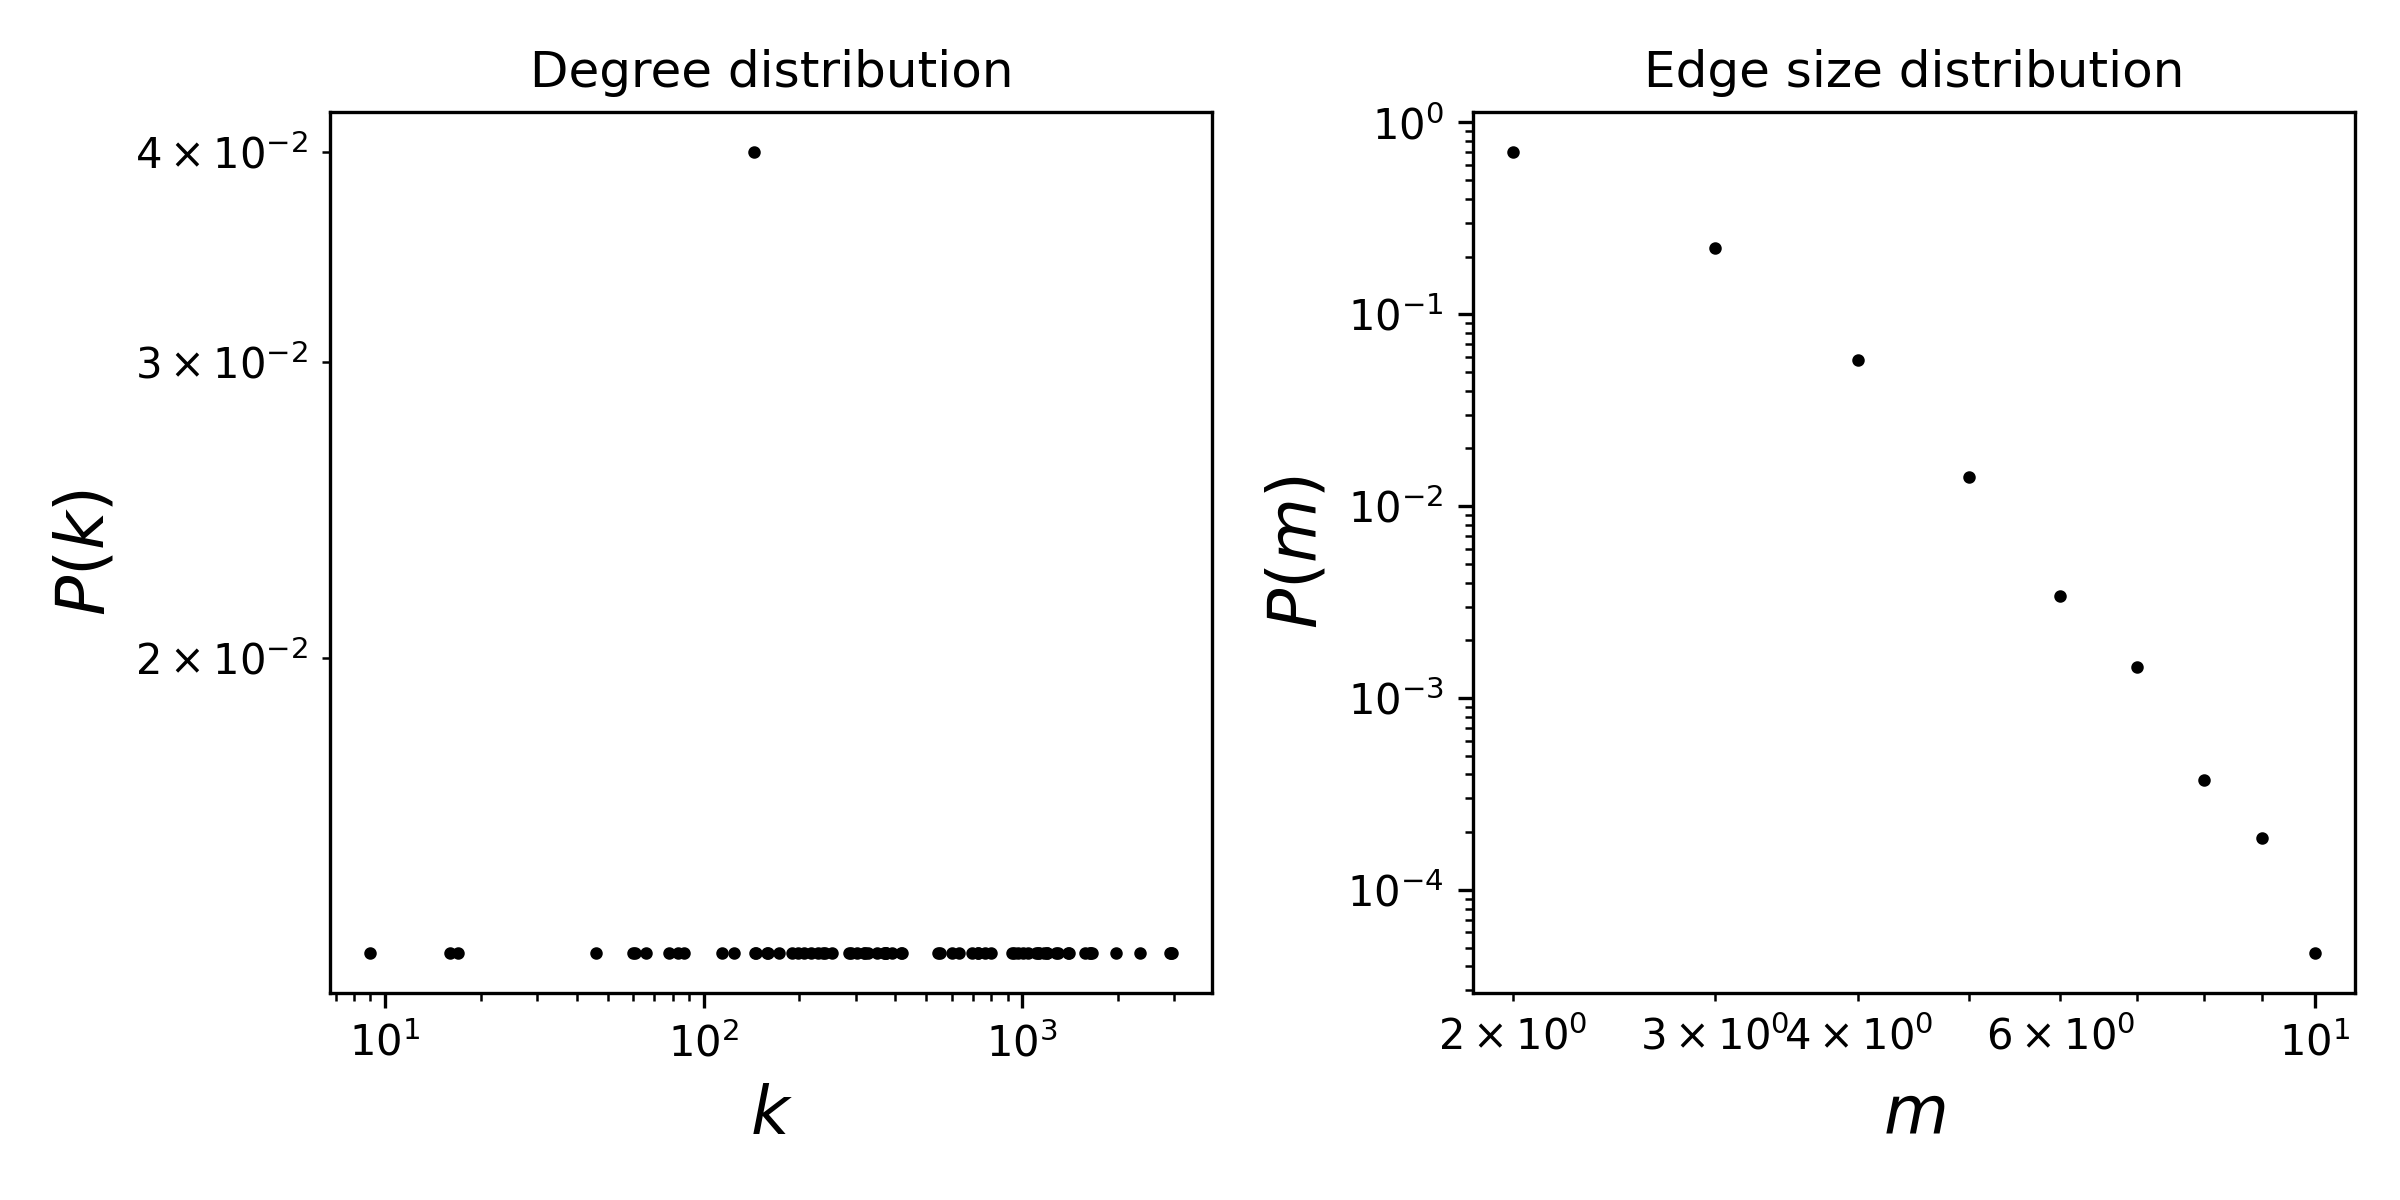
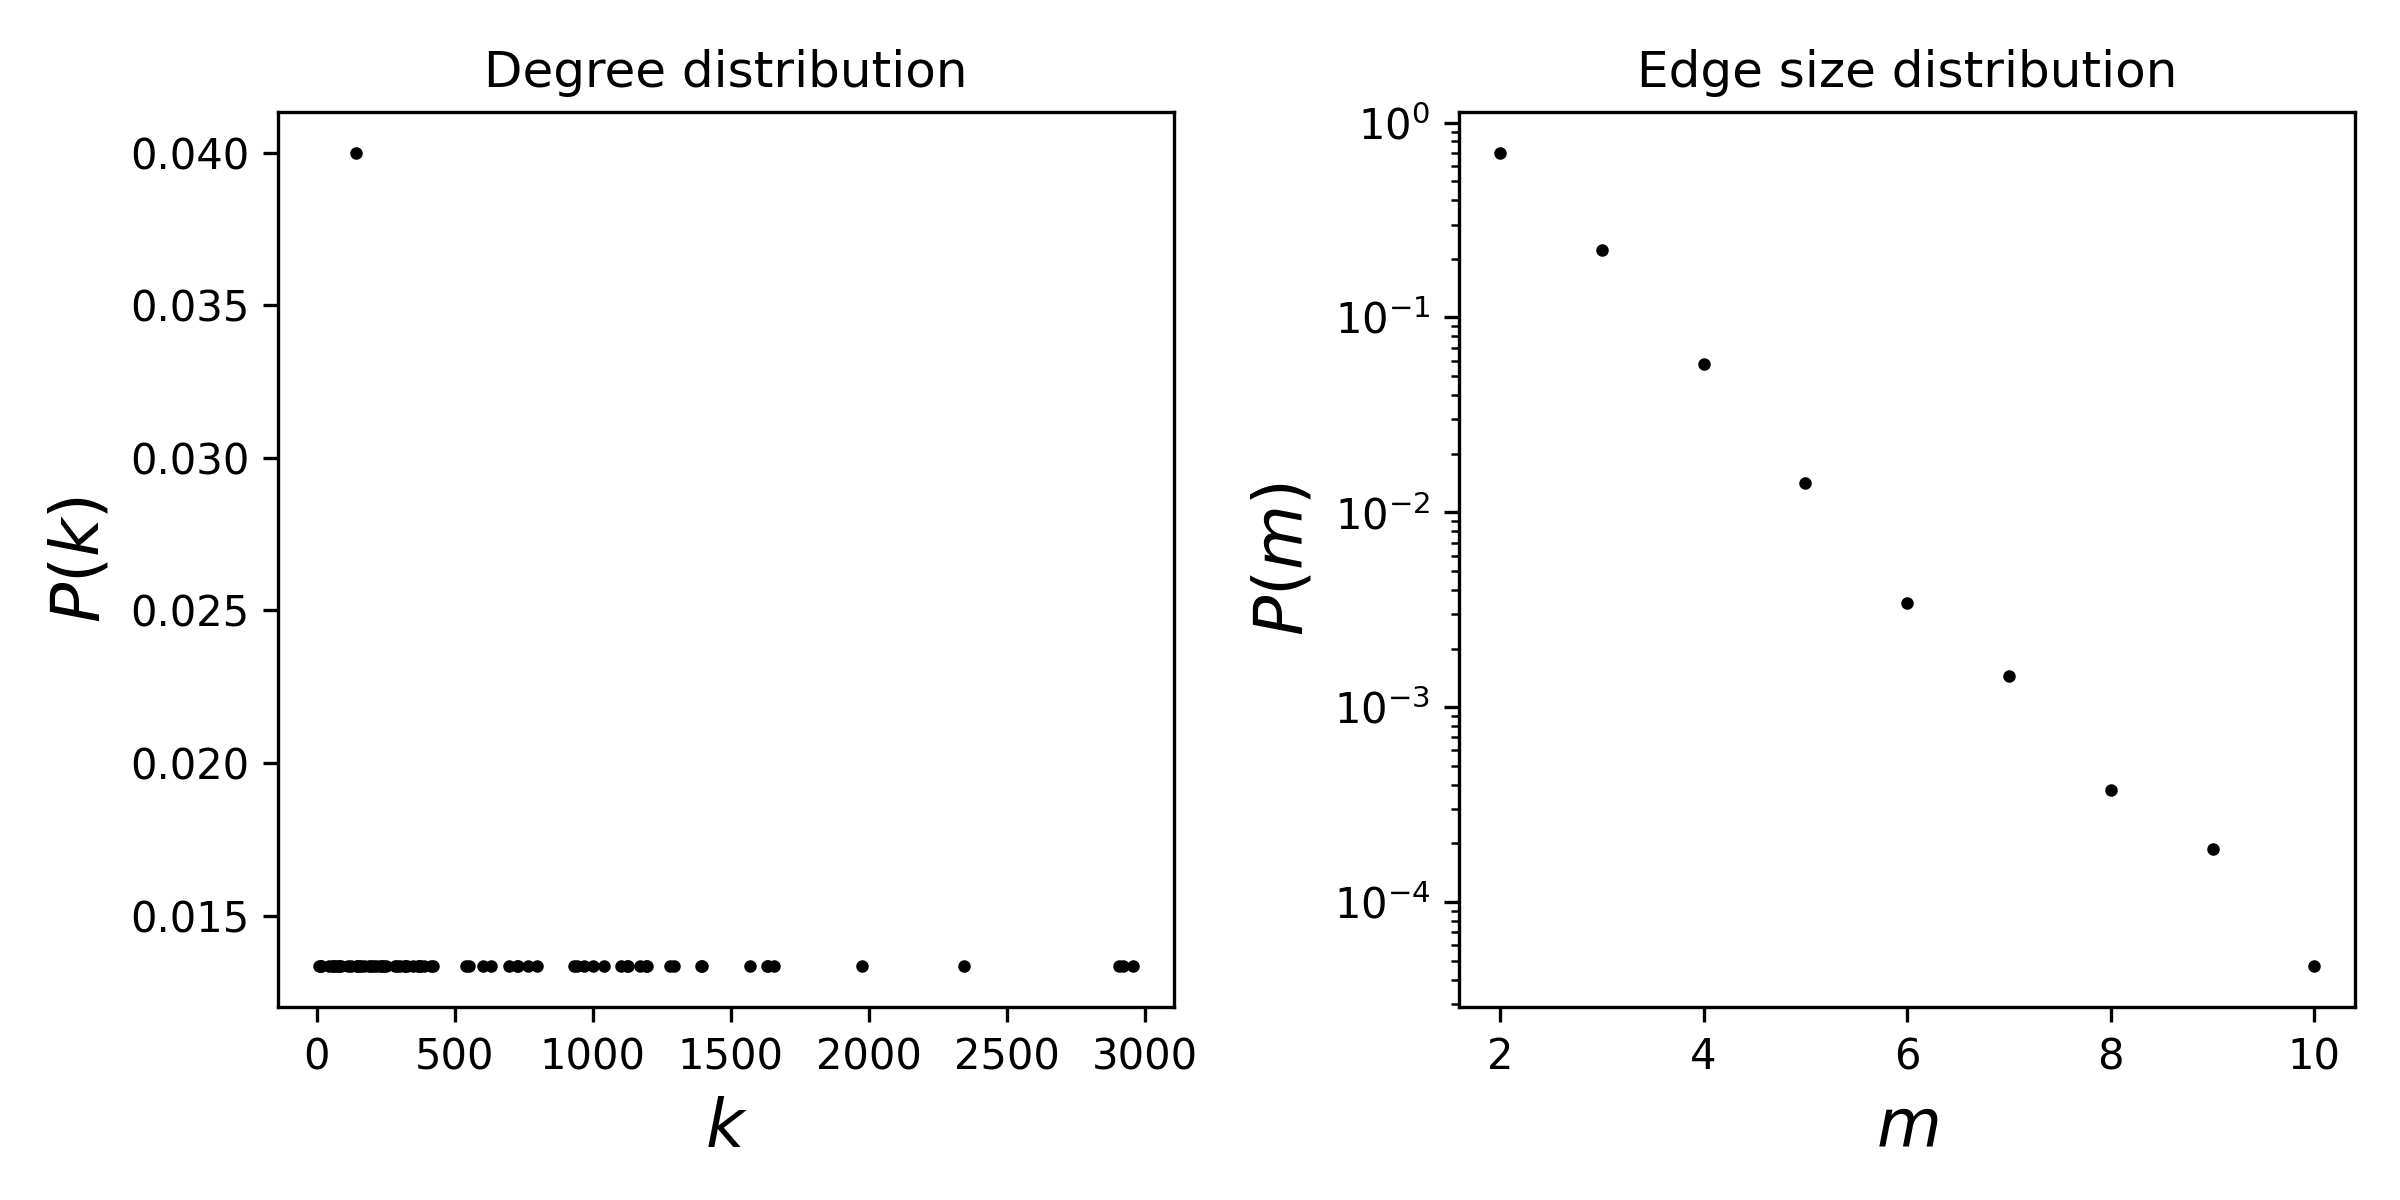
added SocioPatterns link and updated hospital-lyon stats

diff --git a/code/import_hospital-lyon.py b/code/import_hospital-lyon.py
@@ -66,13 +66,13 @@ if output_stats:
     plt.subplot(121)
 
     degrees, counts = np.unique(H.nodes.degree.asnumpy(), return_counts=True)
-    plt.loglog(degrees, counts / H.num_nodes, "ko", markersize=2)
+    plt.plot(degrees, counts / H.num_nodes, "ko", markersize=2)
     plt.title("Degree distribution")
     plt.xlabel(r"$k$", fontsize=16)
     plt.ylabel(r"$P(k)$", fontsize=16)
     plt.subplot(122)
     sizes, counts = np.unique(H.edges.size.asnumpy(), return_counts=True)
-    plt.loglog(sizes, counts / H.num_edges, "ko", markersize=2)
+    plt.semilogy(sizes, counts / H.num_edges, "ko", markersize=2)
     plt.title("Edge size distribution")
     plt.xlabel(r"$m$", fontsize=16)
     plt.ylabel(r"$P(m)$", fontsize=16)

diff --git a/README.md b/README.md
@@ -17,6 +17,7 @@ All IDs are strings but can be converted to other types if desired.
 
 These datasets have been taken from the following sources:
 * [Data! by Austin Benson](https://www.cs.cornell.edu/~arb/data/)
+* [SocioPatterns](http://www.sociopatterns.org/)
 
 ## Repository Description
 The `code` folder contains the scripts used to convert hypergraph datasets into a more standard format and the JSON inspection script. The `data` folder contains the datasets, with each folder containing a README describing the dataset and the dataset in JSON format.
